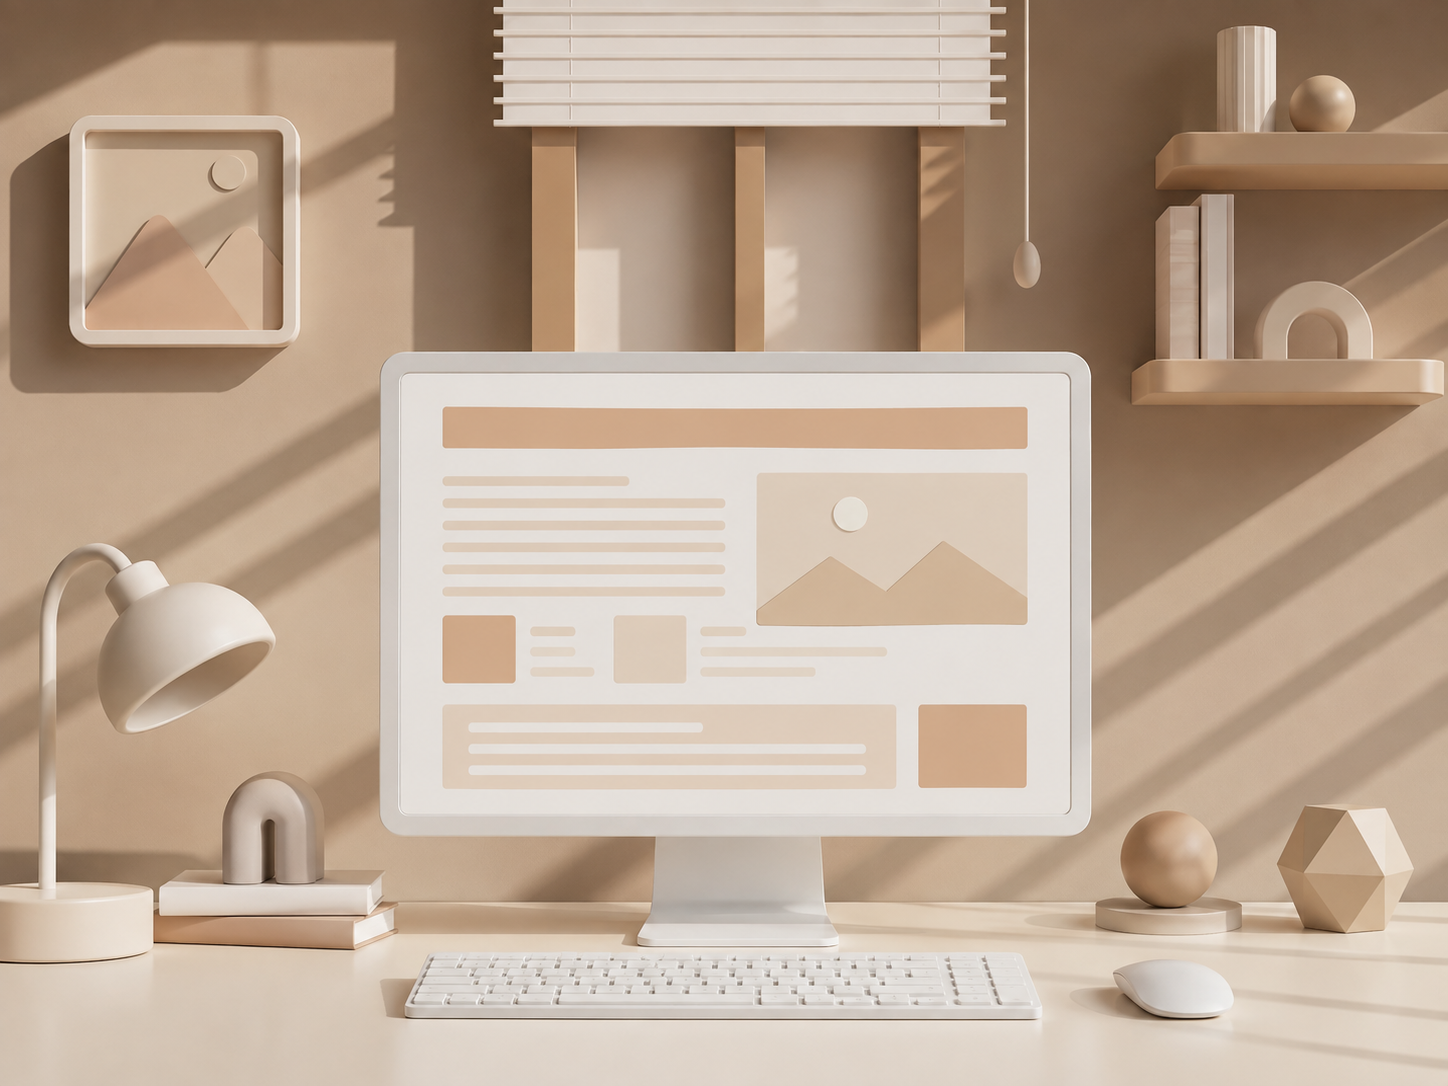
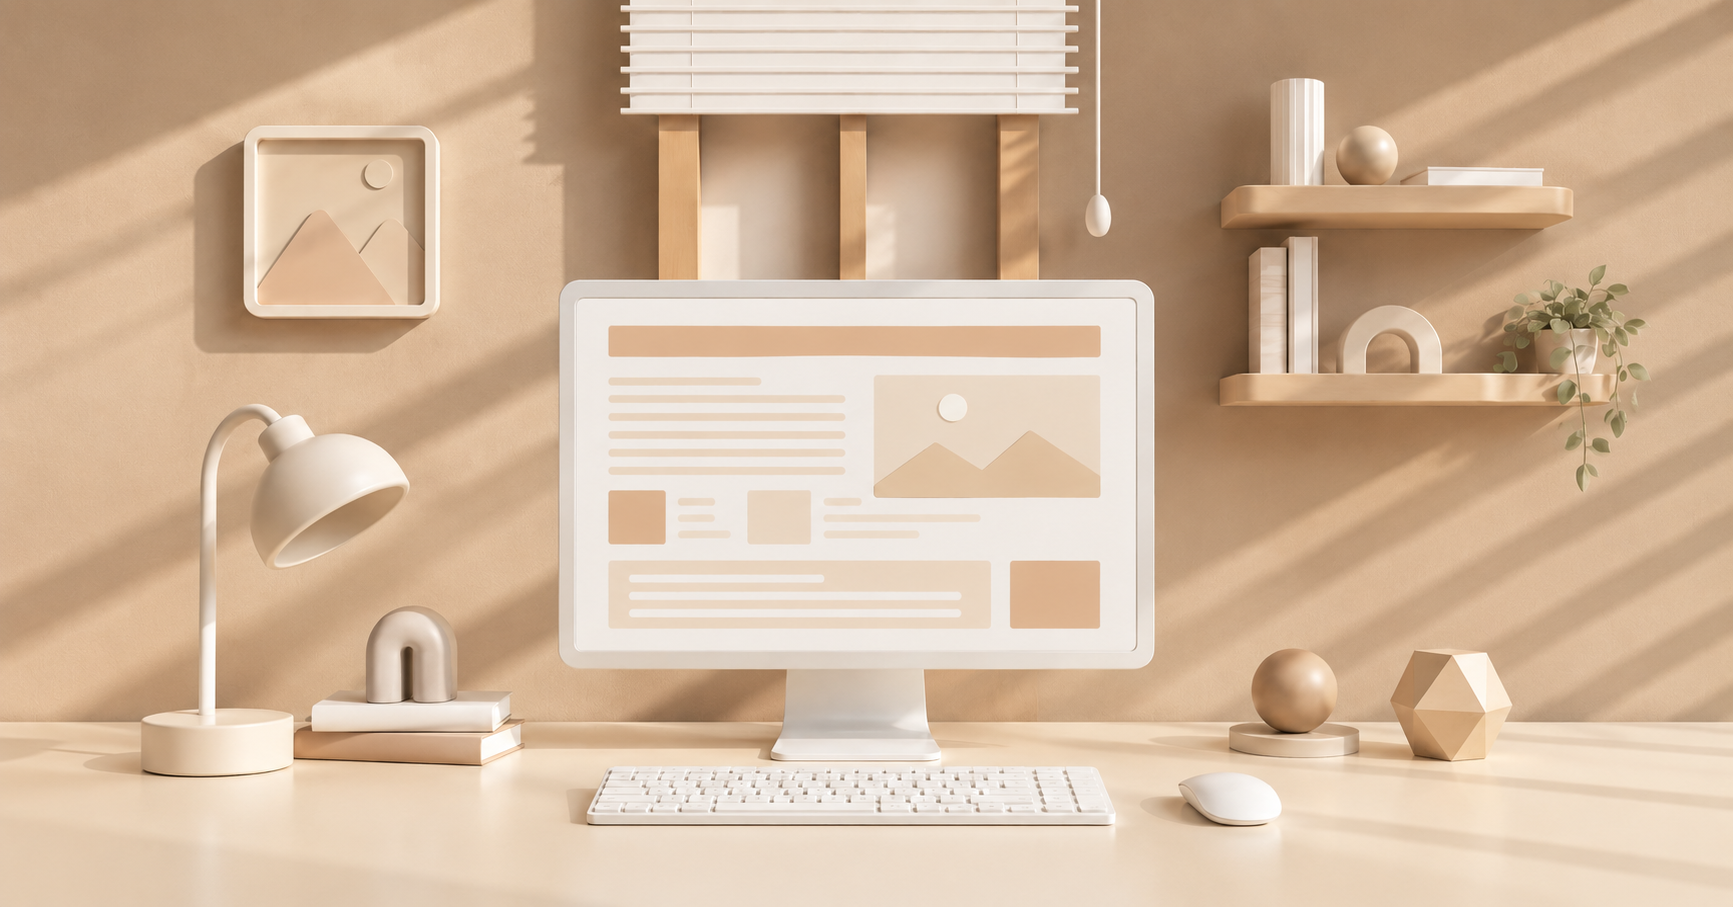
SEO: title suffix, per-group descriptions, og site_name/locale, robots.txt
- Append site name to article/About <title>
- Category/tag/series pages: hand-written descriptions from
  site.toml [config.descriptions.*], auto-generated fallback otherwise
- Fix /blog/series using blog page meta (duplicate title/description)
- Add og:site_name and og:locale (zh_TW)
- Add robots.txt pointing to sitemap
- Replace blog covers with 1.91:1 JPGs under 300KB
- About page line breaks and description; RSS link copies full URL
- Document cover image guidelines in WRITING.md; update SEO-TODO.md

diff --git a/src/utils/group-description.ts b/src/utils/group-description.ts
@@ -1,0 +1,29 @@
+export type GroupKind = 'categories' | 'tags' | 'series';
+
+const groupKindLabels: Record<GroupKind, string> = {
+  categories: '分類',
+  tags: '標籤',
+  series: '系列',
+};
+
+const maxListedTitles = 3;
+
+/**
+ * Meta description for a category/tag/series page. Uses the hand-written entry from
+ * site.toml `[config.descriptions.<kind>]` when present; otherwise builds one from the
+ * group's post titles so every group page gets a unique description.
+ */
+export function getGroupDescription(
+  kind: GroupKind,
+  name: string,
+  posts: { data: { title: string } }[],
+  overrides: Record<string, string>,
+) {
+  const manual = overrides[name]?.trim();
+  if (manual) return manual;
+
+  const titles = posts.slice(0, maxListedTitles).map((post) => post.data.title);
+  const more = posts.length > maxListedTitles ? ' 等' : '';
+
+  return `「${name}」${groupKindLabels[kind]}收錄 ${posts.length} 篇文章：${titles.join('、')}${more}`;
+}

diff --git a/src/content.config.ts b/src/content.config.ts
@@ -432,6 +432,16 @@ const siteConfig = defineCollection({
       })
       .optional()
       .default(defaultPagesConfig),
+    // Hand-written meta descriptions for category/tag/series pages, keyed by display name.
+    // Groups without an entry get an auto-generated description (src/utils/group-description.ts).
+    descriptions: z
+      .object({
+        categories: z.record(z.string(), z.string()).optional().default({}),
+        tags: z.record(z.string(), z.string()).optional().default({}),
+        series: z.record(z.string(), z.string()).optional().default({}),
+      })
+      .optional()
+      .default({ categories: {}, tags: {}, series: {} }),
     home: z.object({
       quote: z.object({
         text: z.array(z.string()).min(1),

diff --git a/SEO-TODO.md b/SEO-TODO.md
@@ -58,7 +58,7 @@
 
 ### [x] 4. `/about` 與 `/projects` 是模板佔位文字，且已進 sitemap
 
-> ✅ 2026-09-14：About 已寫第一版（description 仍是「一句話介紹自己」，待補）。Projects 的 `draft: true` 對 index 頁無效，改成在 `navfolio.config.ts` 停用 projects 模組。
+> ✅ 2026-09-14：About 已寫第一版，description 也已改寫。Projects 的 `draft: true` 對 index 頁無效，改成在 `navfolio.config.ts` 停用 projects 模組。
 
 **現況**
 
@@ -86,7 +86,11 @@
 
 ## 🟠 中等
 
-### [ ] 6. 文章頁的 `<title>` 沒有站名後綴
+### [x] 6. 文章頁的 `<title>` 沒有站名後綴
+
+> ✅ 2026-09-14：`src/layouts/BlogArticle.astro` 改為 ``title={`${title} | ${siteConfig.site.title}`}``。文章頁與 About 頁現在都會帶「| PolarVista」。
+>
+> **說明**：`<title>` 是瀏覽器分頁文字，也是 Google 搜尋結果的藍色大標題。Google 約顯示 30 個中文字，超過會截斷，但站名放在最後，截掉也不影響文章標題本身。
 
 | 頁面      | 目前 title                          |
 | --------- | ----------------------------------- |
@@ -99,7 +103,27 @@
 
 ---
 
-### [ ] 7. 五個分類／標籤頁共用同一段 meta description
+### [x] 7. 五個分類／標籤頁共用同一段 meta description
+
+> ✅ 2026-09-14：分類、標籤、系列頁改為兩層機制（`src/utils/group-description.ts`）：
+>
+> 1. **有手寫就用手寫**：`site.toml` 的 `[config.descriptions.categories]`／`tags`／`series`
+> 2. **沒寫就自動產生**：例如「「開發日記」標籤收錄 1 篇文章：非資工也能架設網站！…」
+>
+> ✅ 2026-09-14：已在 `site.toml` 手寫 onsite / life / money / civic 四個分類與 開發日記 / 非資工人 / 職涯 三個標籤的描述。新增分類或標籤時記得回來補一句（寫法如下）：
+>
+> ```toml
+> [config.descriptions.categories]
+> onsite = "第一線工作現場的觀察與問題解決紀錄"
+> life = "..."
+>
+> [config.descriptions.tags]
+> "開發日記" = "非資工背景自學開發、架站過程的踩坑紀錄"
+> "非資工人" = "..."
+> "職涯" = "..."
+> ```
+>
+> 不寫也不會重複，只是自動產生的描述比較像目錄；手寫的更能吸引點擊。
 
 `/blog/categories/life/`、`/blog/categories/onsite/`、`/tags/職涯/`、`/tags/開發日記/`、`/tags/非資工人/` 的 description 全是站台預設的「喜歡觀察生活事物…」。
 
@@ -107,7 +131,9 @@
 
 ---
 
-### [ ] 8. `/blog/series/` 抓錯設定，跟 `/blog` 完全重複
+### [x] 8. `/blog/series/` 抓錯設定，跟 `/blog` 完全重複
+
+> ✅ 2026-09-14：改為 `pages.blog.series`，title 變成「Series | PolarVista」，description 也改用系列頁自己的文案。
 
 **現況**：`src/pages/blog/series/index.astro:16` 寫的是 `pages.blog` 而不是 `pages.blog.series`，導致 title 變成「Writing notes | PolarVista」——**跟 `/blog` 一模一樣**，description 也錯拿 blog 的。
 
@@ -115,13 +141,19 @@
 
 ---
 
-### [ ] 9. 缺少 `og:site_name` 和 `og:locale`
+### [x] 9. 缺少 `og:site_name` 和 `og:locale`
+
+> ✅ 2026-09-14：`BaseHead.astro` 補上 `og:site_name`（取 `site.title`）與 `og:locale`（依 `theme.lang` 自動轉成 `zh_TW`）。
+>
+> **說明**：把連結貼到 Facebook、LINE、LinkedIn、Discord 時跳出的預覽卡片，內容來自 `og:` 開頭的標籤。`og:site_name` 讓卡片顯示「PolarVista」而不是只有網址；`og:locale` 告訴平台這頁是台灣繁中。注意 og 的格式是底線 `zh_TW`，跟 `<html lang="zh-TW">` 的連字號不同。
 
 `src/components/BaseHead.astro:209-221` 有 og:type / url / title / description / image，但缺 `og:site_name`（分享卡片不顯示站名）與 `og:locale`（沒宣告 zh_TW）。
 
 ---
 
-### [ ] 10. OG 圖 1.4MB 且比例錯誤
+### [x] 10. OG 圖 1.4MB 且比例錯誤
+
+> ✅ 2026-09-14：製作規範已寫進 `WRITING.md` 的「封面圖（cover）製作注意事項」。兩篇文章的 cover 已重新輸出為 1733×907（1.91:1）的 `cover.jpg`（266KB／279KB），frontmatter 的 `heroImage` 改指向 `.jpg`；`cover.png` 為保留的原檔，未被引用、不會部署。
 
 **現況**：兩篇文章的 `cover.png` 都是 **1448×1086（4:3）**，但社群平台要的是 1.91:1（1200×630），會被裁掉上下。而且 `og:image` 指向 **未優化的原始 PNG（1.4MB）**，不是 Astro 產出的 webp。
 
@@ -129,7 +161,11 @@
 
 ---
 
-### [ ] 11. 沒有 robots.txt
+### [x] 11. 沒有 robots.txt
+
+> ✅ 2026-09-14：建立 `public/robots.txt`，允許所有爬蟲並指向 sitemap。
+>
+> **說明**：`robots.txt` 是搜尋引擎與 AI 爬蟲來網站時第一個讀的檔案，告訴它們哪裡能抓、網站地圖在哪。沒有它 Google 仍會收錄，但新文章被發現得比較慢。目前設定歡迎所有爬蟲（含 ChatGPT、Claude、Google AI），文章才有機會被 AI 工具讀到並引用；哪天不想被拿去訓練 AI，也是在這個檔案裡擋。
 
 `dist/robots.txt` 不存在。BaseHead 雖然有 `<link rel="sitemap">`，但 robots.txt 才是爬蟲的標準入口。
 
@@ -150,12 +186,10 @@
 
 ---
 
-## 建議處理順序
+## 目前進度（2026-09-14）
 
-1. **第 1 + 3 項**（字體）—— 一起處理，對 Core Web Vitals 效果最立即
-2. **第 4 + 5 項**（佔位內容與空殼頁）—— 把不該被收錄的東西處理掉
-3. **第 2 項**（`lang`）—— 需要先決定「要不要接受 UI 變中文」
-4. 其餘依序往下
+- ✅ 已完成：1–11
+- ⏳ 尚未開始：12–19（多為模板殘留，改動都很小）
 
 ## 相關文件
 

diff --git a/WRITING.md b/WRITING.md
@@ -58,7 +58,25 @@ src/assets/figure/blog/<slug>/
   ```
 - **不要**放進 `public/`：`public/` 底下的檔案不會經過 Astro 的圖片優化（不會自動轉 webp/avif、不會依裝置縮放），只有放在 `src/assets/` 才會被 `heroImage`/`ogImage` 的 schema 接受並優化。`public/` 保留給 favicon、manifest 這類「必須固定網址、不需要優化」的靜態檔。
 - 外部圖床/CDN 圖片也可以，直接填完整的 `https://` 網址即可（會被當成 remote image，不經過本地優化）。
-- OG 圖建議用 **1200×630** 左右的比例，社群平台預覽卡片才不會被裁切奇怪。
+
+### 封面圖（cover）製作注意事項
+
+同一張 cover 會同時出現在「社群分享卡片」和「blog 列表縮圖」，製作時照這幾點：
+
+1. **尺寸做 1200 × 630**（約 1.91:1），這是 Facebook / LinkedIn / LINE 分享卡片的標準比例。用 4:3 之類的比例，分享時上下會被裁掉。
+2. **重要內容放中間，四周各留約 80–100px 不放關鍵元素**。不同地方的裁切方式不同：
+
+   | 出現位置                     | 呈現方式                                                    |
+   | ---------------------------- | ----------------------------------------------------------- |
+   | Facebook / LinkedIn 分享卡片 | 1.91:1 完整顯示                                             |
+   | X（Twitter）、部分 LINE 預覽 | 可能裁成 2:1 或更窄                                         |
+   | blog 列表縮圖                | 約 1.44:1，右側會淡出融入背景（`coverImageStyle = "mask"`） |
+
+3. **檔案壓到 300KB 以下**。分享卡片抓的是你放進去的**原始檔**（不會經過網站壓縮），太大時社群平台可能抓圖逾時、卡片直接不顯示圖。
+   - 插畫、截圖類：PNG，再丟 [Squoosh](https://squoosh.app) 壓縮
+   - 照片類：輸出 JPG，品質 80 左右
+4. **圖上有字的話，字要大**：手機上的預覽卡片通常只有約 300px 寬。放關鍵字即可，完整標題卡片本身會顯示。
+5. **每篇文章用不同的圖**，不要全站共用同一張。
 
 ## 4. 寫正文
 

diff --git a/src/content/blog/build-blog-something-need-to-know.md b/src/content/blog/build-blog-something-need-to-know.md
@@ -10,7 +10,7 @@ date: "2026-09-04T02:15:58.928Z"    # 發布日
 updatedDate: ''
 draft: false
 sticky: false
-heroImage: '../../assets/figure/blog/build-blog-something-need-to-know/cover.png'
+heroImage: '../../assets/figure/blog/build-blog-something-need-to-know/cover.jpg'
 ogImage: ''                    # 社群分享用的預覽圖，留空會自動 fallback 用 heroImage，兩者都沒有才用全站預設圖
 showHeroImage: false
 

diff --git a/src/content/blog/just-use-common-sense.md b/src/content/blog/just-use-common-sense.md
@@ -5,7 +5,7 @@ date: "2026-08-24T23:25:27.804Z"
 updatedDate: "2026-08-26T06:31:27.804Z"
 draft: false
 sticky: false
-heroImage: '../../assets/figure/blog/just-use-common-sense/cover.png'
+heroImage: '../../assets/figure/blog/just-use-common-sense/cover.jpg'
 showHeroImage: true
 tags: ["職涯"]
 categories: ["life"]
